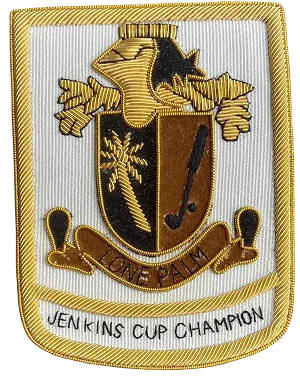
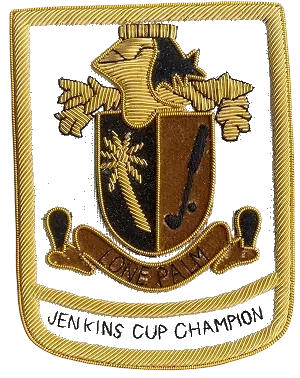
Fix Gallery hero badge images: remove white background and border
The Lions International and Jenkins Cup badge photos had a white
background baked in, which rendered as an ugly white box against the
dark page with a gold border framing it. Chroma-key out the white/
light-gray background (including the Jenkins patch's herringbone
fabric backing) so the badges float transparently on the dark
background instead. Remove the border, and switch object-cover to
object-contain so the full badge shows without edge cropping now that
there's no background box to fill.

diff --git a/src/pages/Gallery.jsx b/src/pages/Gallery.jsx
@@ -97,7 +97,7 @@ export default function Gallery() {
           <img
             src={heroLionsImg}
             alt="Lions International hand-embroidered badge"
-            className="w-40 mx-auto aspect-square object-cover rounded border border-gold/20 lg:w-full"
+            className="w-40 mx-auto aspect-square object-contain lg:w-full"
           />
           <div className="text-center">
             <h1 className="font-serif text-[clamp(2rem,3.4vw,2.8rem)] leading-[1.15] text-cream mb-5">
@@ -114,7 +114,7 @@ export default function Gallery() {
           <img
             src={heroJenkinsImg}
             alt="Jenkins Cup champion hand-embroidered badge"
-            className="w-40 mx-auto aspect-square object-cover rounded border border-gold/20 lg:w-full"
+            className="w-40 mx-auto aspect-square object-contain lg:w-full"
           />
         </div>
       </section>
